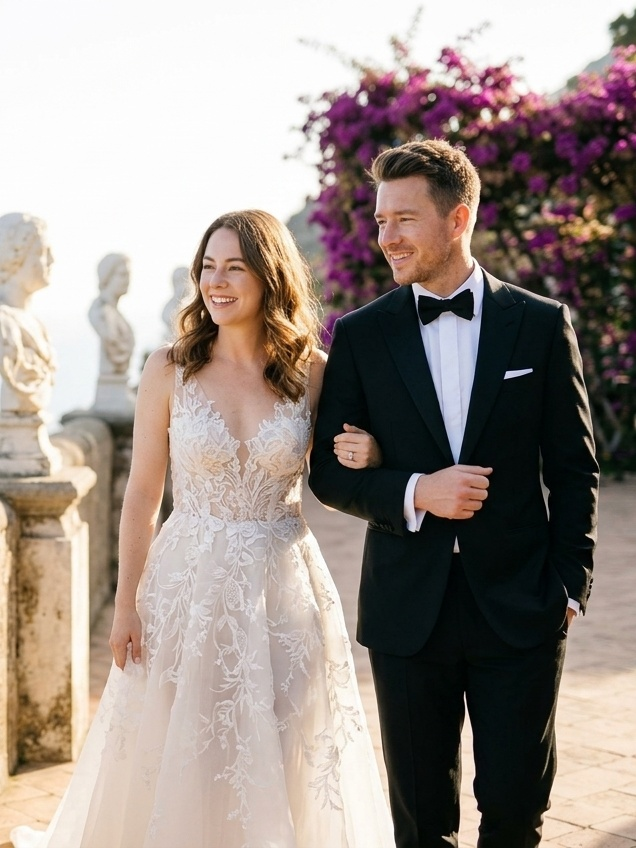
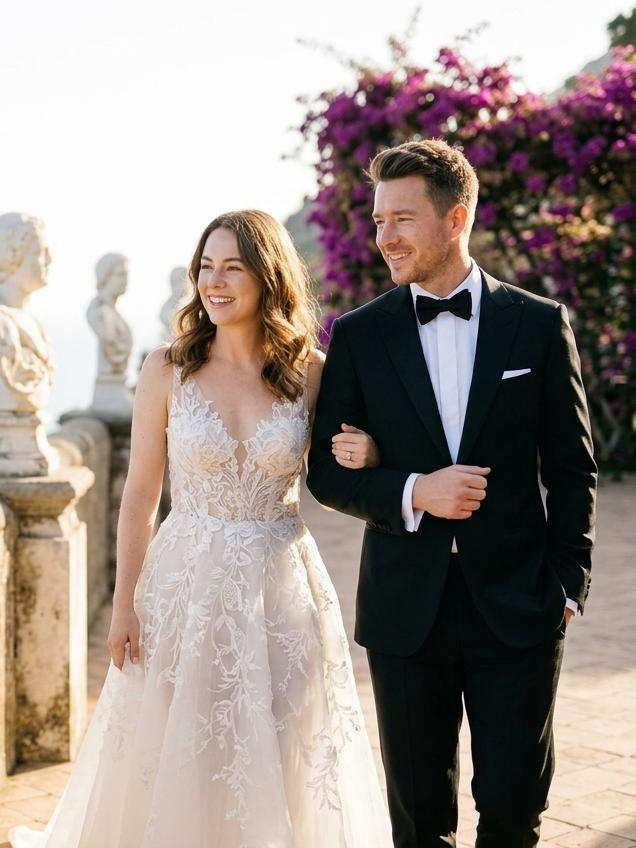
feat-wedding-apply-crop-d-amalfi-center-and-paypal-gated-synthesis

diff --git a/app/weddinghelper/gallery/page.tsx b/app/weddinghelper/gallery/page.tsx
@@ -1,6 +1,6 @@
 'use client';
 
-import React, { useState, useEffect, Suspense } from 'react';
+import React, { useState, useEffect, useRef, Suspense } from 'react';
 import Link from 'next/link';
 import Image from 'next/image';
 import { useSearchParams, useRouter } from 'next/navigation';
@@ -18,7 +18,9 @@ import {
   ExternalLink,
   ShieldCheck,
   Lock,
-  ArrowRight
+  ArrowRight,
+  ChevronLeft,
+  ChevronRight
 } from 'lucide-react';
 import JSZip from 'jszip';
 
@@ -133,6 +135,7 @@ function GalleryContent() {
   const [checkoutEmail, setCheckoutEmail] = useState('');
 
   const [activeTab, setActiveTab] = useState<string>(initialDest);
+  const tabsScrollRef = useRef<HTMLDivElement>(null);
   const [activeLightboxScene, setActiveLightboxScene] = useState<Wedding240Scene | null>(null);
   const [personalizedScenes, setPersonalizedScenes] = useState<Record<string, string>>({});
   const [failedImages, setFailedImages] = useState<Record<string, boolean>>({});
@@ -909,38 +912,77 @@ function GalleryContent() {
               );
             })()}
 
-            {/* 12 Destination Tabs Bar */}
-            <div className="bg-[#1C1719] rounded-2xl border border-white/10 p-2.5 mb-8 flex items-center gap-2 overflow-x-auto scrollbar-thin">
+            {/* 12 Destination Tabs Bar with Left/Right Navigation */}
+            <div className="relative mb-8 group/tabs">
+              {/* Left Arrow Button */}
               <button
                 type="button"
-                onClick={() => setActiveTab('all')}
-                className={`px-4 py-2.5 rounded-xl text-xs font-bold uppercase tracking-wider whitespace-nowrap transition cursor-pointer ${
-                  activeTab === 'all'
-                    ? 'bg-[#D4AF37] text-[#1F181B] shadow-md ring-2 ring-[#D4AF37]/50'
-                    : 'bg-white/5 text-white/80 hover:bg-white/15'
-                }`}
+                aria-label="Scroll tabs left"
+                onClick={() => {
+                  if (tabsScrollRef.current) {
+                    tabsScrollRef.current.scrollBy({ left: -260, behavior: 'smooth' });
+                  }
+                }}
+                className="absolute left-2 top-1/2 -translate-y-1/2 z-20 w-8 h-8 rounded-full bg-[#1F181B]/95 border border-[#D4AF37]/50 text-[#D4AF37] hover:bg-[#D4AF37] hover:text-[#1F181B] transition shadow-xl flex items-center justify-center cursor-pointer backdrop-blur-md"
               >
-                All 240 Scenes (240)
+                <ChevronLeft className="w-4 h-4 stroke-[2.5]" />
               </button>
-              {DESTINATION_240_CONFIGS.map((dest, idx) => {
-                const isActive = activeTab === dest.id;
-                return (
-                  <button
-                    key={dest.id}
-                    type="button"
-                    onClick={() => setActiveTab(dest.id)}
-                    className={`px-3.5 py-2.5 rounded-xl text-xs font-semibold tracking-wider whitespace-nowrap transition cursor-pointer flex items-center gap-1.5 ${
-                      isActive
-                        ? 'bg-[#D4AF37] text-[#1F181B] font-bold shadow-md'
-                        : 'bg-white/5 text-white/70 hover:bg-white/15'
-                    }`}
-                  >
-                    <span className="opacity-70 font-mono">#{idx + 1}</span>
-                    <span>{dest.title.split(' ')[0]} {dest.title.split(' ')[1] || ''}</span>
-                    <span className="text-[10px] px-1.5 py-0.5 rounded-full bg-black/40 text-white/90">20</span>
-                  </button>
-                );
-              })}
+
+              {/* Right Arrow Button */}
+              <button
+                type="button"
+                aria-label="Scroll tabs right"
+                onClick={() => {
+                  if (tabsScrollRef.current) {
+                    tabsScrollRef.current.scrollBy({ left: 260, behavior: 'smooth' });
+                  }
+                }}
+                className="absolute right-2 top-1/2 -translate-y-1/2 z-20 w-8 h-8 rounded-full bg-[#1F181B]/95 border border-[#D4AF37]/50 text-[#D4AF37] hover:bg-[#D4AF37] hover:text-[#1F181B] transition shadow-xl flex items-center justify-center cursor-pointer backdrop-blur-md"
+              >
+                <ChevronRight className="w-4 h-4 stroke-[2.5]" />
+              </button>
+
+              {/* Scrollable Tabs Container */}
+              <div
+                ref={tabsScrollRef}
+                className="bg-[#1C1719] rounded-2xl border border-white/10 p-2.5 px-12 flex items-center gap-2 overflow-x-auto scroll-smooth select-none cursor-grab active:cursor-grabbing [scrollbar-width:none] [-ms-overflow-style:none] [&::-webkit-scrollbar]:hidden"
+                onWheel={(e) => {
+                  if (e.deltaY !== 0 && tabsScrollRef.current) {
+                    tabsScrollRef.current.scrollLeft += e.deltaY;
+                  }
+                }}
+              >
+                <button
+                  type="button"
+                  onClick={() => setActiveTab('all')}
+                  className={`px-4 py-2.5 rounded-xl text-xs font-bold uppercase tracking-wider whitespace-nowrap transition cursor-pointer shrink-0 ${
+                    activeTab === 'all'
+                      ? 'bg-[#D4AF37] text-[#1F181B] shadow-md ring-2 ring-[#D4AF37]/50'
+                      : 'bg-white/5 text-white/80 hover:bg-white/15'
+                  }`}
+                >
+                  All 240 Scenes (240)
+                </button>
+                {DESTINATION_240_CONFIGS.map((dest, idx) => {
+                  const isActive = activeTab === dest.id;
+                  return (
+                    <button
+                      key={dest.id}
+                      type="button"
+                      onClick={() => setActiveTab(dest.id)}
+                      className={`px-3.5 py-2.5 rounded-xl text-xs font-semibold tracking-wider whitespace-nowrap transition cursor-pointer shrink-0 flex items-center gap-1.5 ${
+                        isActive
+                          ? 'bg-[#D4AF37] text-[#1F181B] font-bold shadow-md'
+                          : 'bg-white/5 text-white/70 hover:bg-white/15'
+                      }`}
+                    >
+                      <span className="opacity-70 font-mono">#{idx + 1}</span>
+                      <span>{dest.title.split(' ')[0]} {dest.title.split(' ')[1] || ''}</span>
+                      <span className="text-[10px] px-1.5 py-0.5 rounded-full bg-black/40 text-white/90">20</span>
+                    </button>
+                  );
+                })}
+              </div>
             </div>
 
             {/* Destination Subheader */}

diff --git a/app/weddinghelper/page.tsx b/app/weddinghelper/page.tsx
@@ -29,7 +29,7 @@ const WEDDING_SAMPLE_PINS: ShowroomPin[] = (WEDDING_12_PRESETS['bali-jungle']?.p
 // 12 World-Class Luxury Destination Configs (20 Editorial Angles Each)
 const DESTINATION_240_CONFIGS = [
   { id: 'theme_01_bali', title: 'Bali Rainforest Infinity Chapel', dest: 'Ubud, Bali, Indonesia', venue: 'The Edge Bali & Mandapa Ritz-Carlton', heroImg: '/images/weddings_240/theme_01_bali/scene_01.jpg', position: 'center center' },
-  { id: 'theme_02_amalfi', title: 'Amalfi Coast Cliffside Belvedere', dest: 'Positano, Amalfi Coast, Italy', venue: 'Villa Cimbrone & Le Sirenuse', heroImg: '/images/weddings_240/theme_02_amalfi/scene_01.jpg', position: 'center center' },
+  { id: 'theme_02_amalfi', title: 'Amalfi Coast Cliffside Belvedere', dest: 'Positano, Amalfi Coast, Italy', venue: 'Villa Cimbrone & Le Sirenuse', heroImg: '/images/weddings_240/theme_02_amalfi/scene_01_v2.jpg', position: 'center center' },
   { id: 'theme_03_lake_como', title: 'Lake Como Villa Renaissance', dest: 'Bellagio, Lake Como, Italy', venue: 'Villa d\'Este & Villa del Balbianello', heroImg: '/images/weddings_240/theme_03_lake_como/scene_01.jpg', position: 'center center' },
   { id: 'theme_04_paris', title: 'Paris Private Palace & Seine Terrace', dest: 'Paris, France', venue: 'Hôtel de Crillon & Shangri-La Paris', heroImg: '/images/weddings_240/theme_04_paris/scene_01.jpg', position: 'center center' },
   { id: 'theme_05_nyc', title: 'Manhattan Skyline Penthouse & Central Park', dest: 'New York City, USA', venue: 'The Glasshouses & Aman New York', heroImg: '/images/weddings_240/theme_05_nyc/scene_01.jpg', position: 'center center' },
@@ -321,6 +321,13 @@ export default function WeddingHelperPage() {
       return;
     }
 
+    // Require PayPal VIP Pass ($19) to synthesize and transform photos
+    if (!user?.isVip && user?.plan !== 'grand') {
+      setIsCheckoutOpen(true);
+      showToast('🔒 Please complete the $19 VIP Pass with PayPal to transform your photos into high-fashion destinations.');
+      return;
+    }
+
     // Pick 1 random landmark destination from the 12 concepts
     const randomIndex = Math.floor(Math.random() * DESTINATION_240_CONFIGS.length);
     const targetConcept = DESTINATION_240_CONFIGS[randomIndex];
@@ -373,12 +380,19 @@ export default function WeddingHelperPage() {
     }
   };
 
-  // 🌟 Synthesize any specific concept with user's face
+  // 🌟 Synthesize any specific concept with user's face (Gated by PayPal VIP Pass)
   const handleSynthesizeSingleConcept = async (themeId: string, angleTitle = 'Ceremonial Altar Vows') => {
     const imagesToUse = getClientImages();
     if (imagesToUse.length === 0) {
       showToast('⚠ Please upload your reference photo first.');
       coupleInputRef.current?.click();
+      return;
+    }
+
+    // Require PayPal VIP Pass ($19) to synthesize individual concepts
+    if (!user?.isVip && user?.plan !== 'grand') {
+      setIsCheckoutOpen(true);
+      showToast('🔒 Please activate the $19 VIP Pass with PayPal to synthesize your face into all destinations.');
       return;
     }
 
